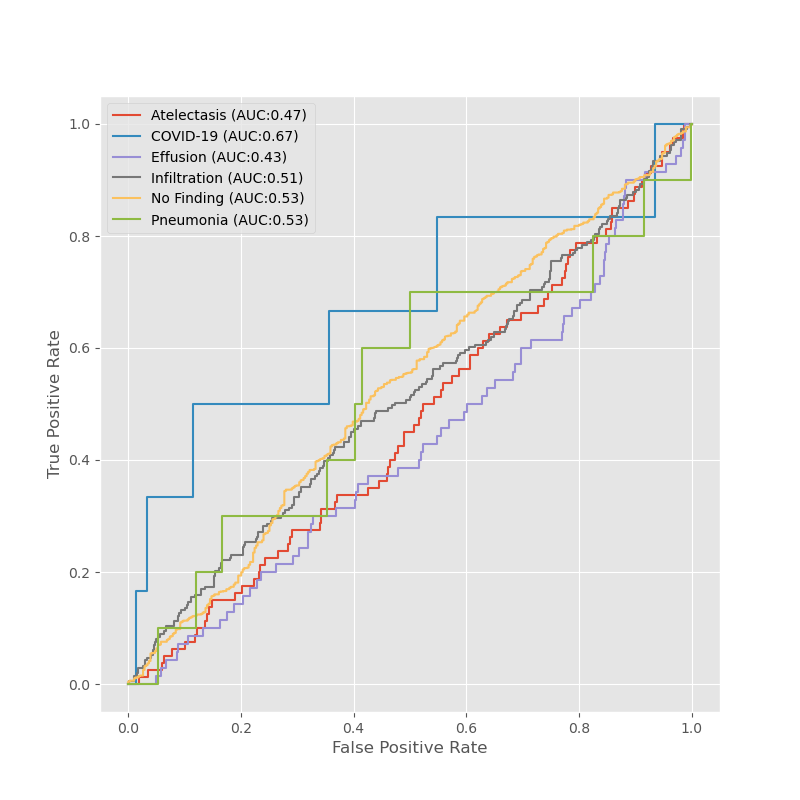
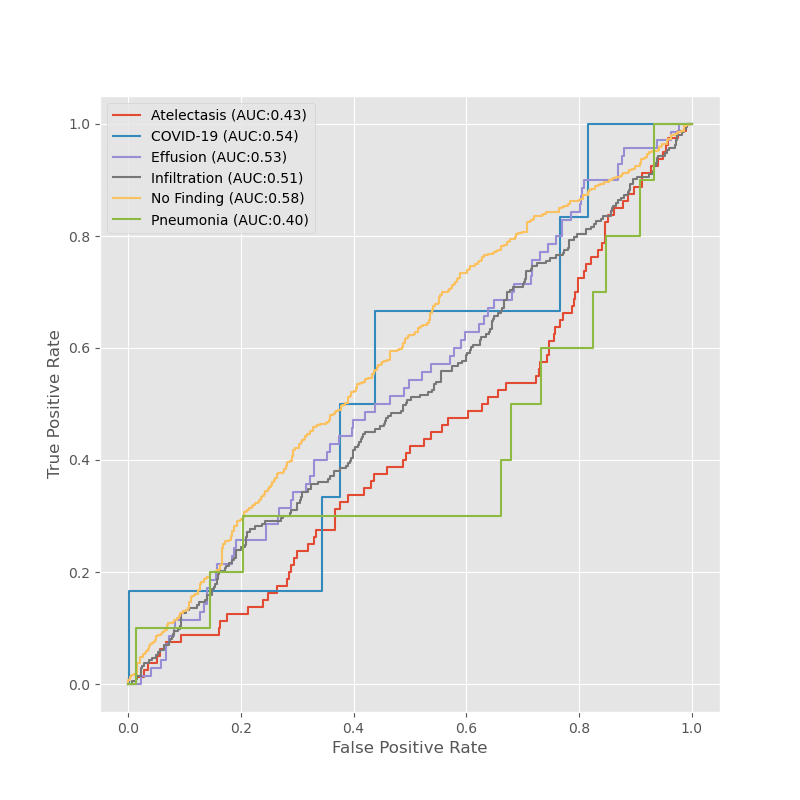
Iterative functionality started, but accuracy logging pending.

diff --git a/src/compare_model.py b/src/compare_model.py
@@ -8,10 +8,10 @@ from evaluator import Evaluator
 setup.init()
 
 # Overall variables
-model_dest = setup.models[0][0]
-model_figures_dest = setup.models[0][1]
+# model_dest = setup.models[0][0]
+# model_figures_dest = setup.models[0][1]
 
-baseKerasModel = setup.models[0][2]
+# baseKerasModel = setup.models[0][2]
 EPOCHS = setup.EPOCHS
 
 # Preprocessing
@@ -22,8 +22,20 @@ EPOCHS = setup.EPOCHS
 
 # Todo: len(setup.labels) - 1 because COVID-19 is not a class yet
 no_of_classes = len(setup.labels)
-model = mb.construct(baseKerasModel, no_of_classes)
+
 
 evaluator = Evaluator(train_generator, test_generator, valid_X, valid_Y, EPOCHS)
 
-evaluator.run_with(model, model_dest, model_figures_dest)
+for index, base_model in enumerate(setup.models):
+    
+    model_dest = base_model[0]
+    model_figures_dest = base_model[1]
+    base_keras_model = base_model[2]
+    
+    if index == 1:
+        break
+
+    model = mb.construct(base_keras_model, no_of_classes)
+    evaluator.run_with(model, model_dest, model_figures_dest)
+
+print("CompareModel completed.")
